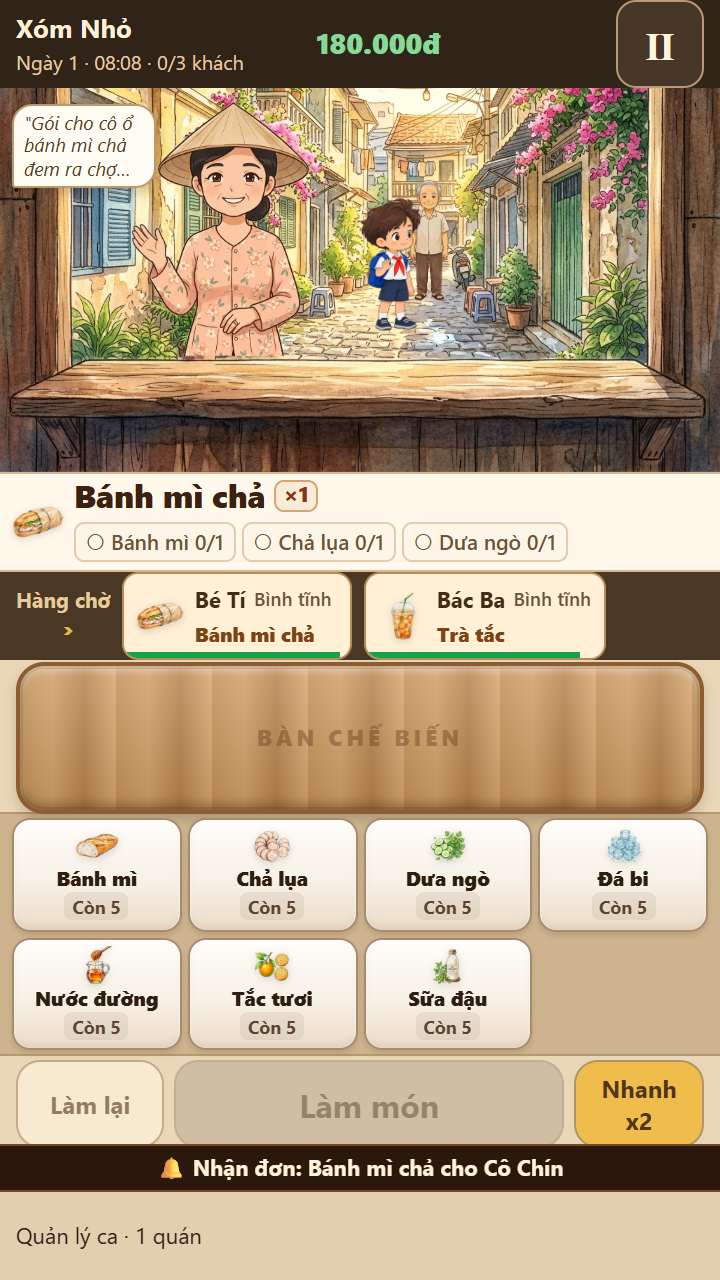
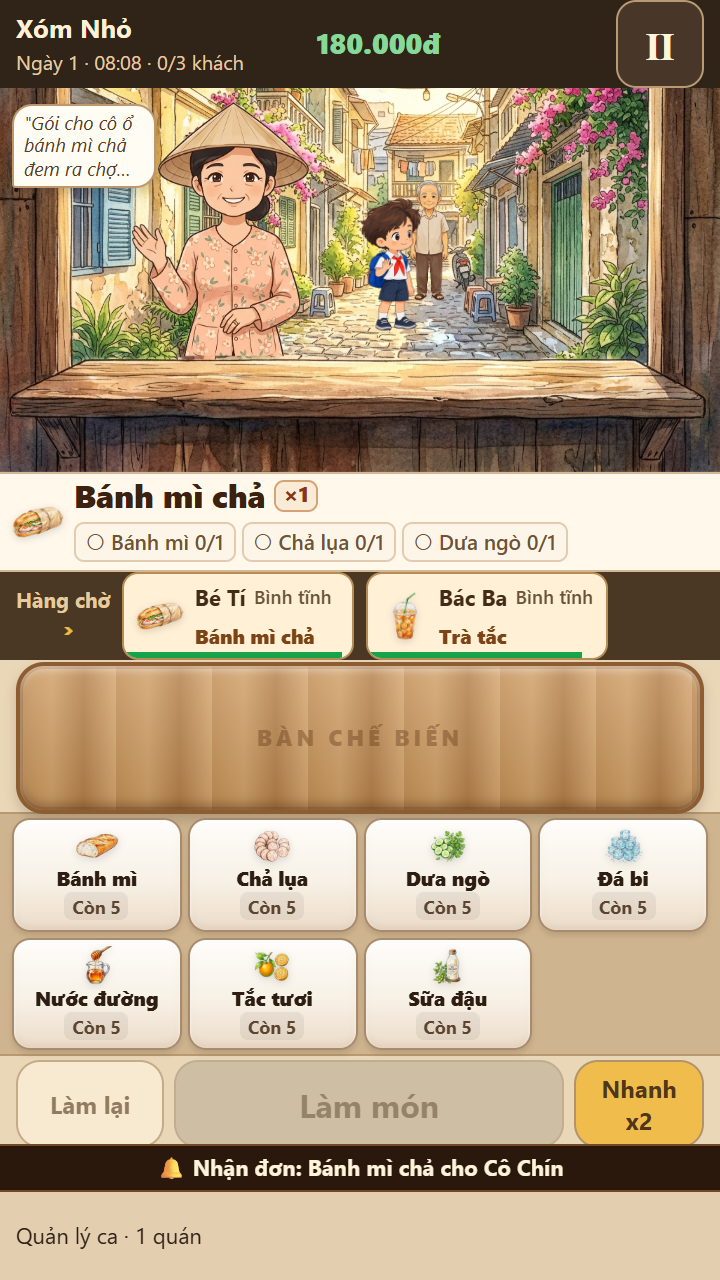
fix(gameplay-ui): adjust queue cards on 390x844 to prevent text clipping and remove unsupported recipe dialogues

diff --git a/game/style.css b/game/style.css
@@ -2633,7 +2633,7 @@ button:focus-visible, [role=button]:focus-visible { outline: 3px solid #0e7490; 
 
 /* Hands-on mobile kitchen: all cooking controls share the visible viewport. */
 #app[data-screen="SHOP"] { height: 100dvh; min-height: 0; overflow: hidden; }
-.play-screen { height:100%; display:grid; grid-template-rows:48px minmax(180px,1fr) auto 48px 80px 136px 48px auto 44px; gap:0; background:#ead7b8; padding-bottom:env(safe-area-inset-bottom); }
+.play-screen { height:100%; display:grid; grid-template-rows:48px minmax(180px,1fr) auto 52px 80px 136px 48px auto 44px; gap:0; background:#ead7b8; padding-bottom:env(safe-area-inset-bottom); }
 .play-header { display:flex; align-items:center; gap:6px; padding:4px 8px; background:#302419; color:#fff0d6; }
 .play-header>div { min-width:0; flex:1; }
 .play-header b { display:block; white-space:nowrap; overflow:hidden; text-overflow:ellipsis; font-size:14px; }
@@ -2667,15 +2667,15 @@ button:focus-visible, [role=button]:focus-visible { outline: 3px solid #0e7490; 
 .queue-header-label { width:auto; min-width:38px; flex-shrink:0; font-weight:700; font-size:10.5px; color:#e5cb9f; display:flex; flex-direction:column; align-items:center; line-height:1.1; }
 .queue-scroll-indicator { display:inline-block; font-style:normal; font-size:13px; font-weight:900; color:#f6c445; animation:queueArrowPulse 1.2s ease-in-out infinite; }
 @keyframes queueArrowPulse { 0%, 100% { transform:translateX(0); opacity:0.6; } 50% { transform:translateX(3px); opacity:1; } }
-.queue-ticket { min-width:115px; max-width:145px; min-height:44px; height:44px; position:relative; overflow:hidden; border:1px solid #b78d56; border-radius:8px; background:#fff0d6; padding:2px 6px; display:flex; align-items:center; gap:5px; text-align:left; color:#493019; flex-shrink:0; }
+.queue-ticket { min-width:116px; max-width:150px; min-height:46px; height:48px; position:relative; overflow:hidden; border:1px solid #b78d56; border-radius:8px; background:#fff0d6; padding:3px 7px 5px 6px; display:flex; align-items:center; gap:5px; text-align:left; color:#493019; flex-shrink:0; }
 .queue-dish-thumb { width:28px; height:28px; object-fit:contain; flex-shrink:0; filter:drop-shadow(0 1px 2px rgba(0,0,0,0.15)); }
-.queue-ticket-meta { flex:1; min-width:0; display:flex; flex-direction:column; justify-content:center; gap:1px; }
+.queue-ticket-meta { flex:1; min-width:0; display:flex; flex-direction:column; justify-content:center; gap:1.5px; }
 .queue-cust-line { display:flex; align-items:center; gap:4px; white-space:nowrap; overflow:hidden; text-overflow:ellipsis; }
 .queue-cust-line b { font-size:11px; font-weight:700; color:#432b17; white-space:nowrap; overflow:hidden; text-overflow:ellipsis; }
 .queue-cust-line small { font-size:9.5px; color:#6b5338; line-height:1.2; white-space:nowrap; }
 .queue-cust-line .rush-label { color:#c2410c; font-weight:800; }
-.queue-dish-line { display:block; line-height:1.15; overflow:visible; }
-.queue-dish-name { font-size:10px; font-weight:800; color:#7c4415; white-space:nowrap; overflow:visible; text-overflow:clip; }
+.queue-dish-line { display:block; line-height:1.25; overflow:visible; }
+.queue-dish-name { font-size:10px; font-weight:800; color:#7c4415; white-space:nowrap; overflow:visible; text-overflow:clip; display:inline-block; line-height:1.25; }
 .queue-patience-bar { position:absolute; left:0; bottom:0; height:3px; }
 .queue-ticket.chosen { background:#ffdf8b; border:2px solid #e2ab24; }
 .queue-empty-note { font-size:11px; color:#d8c29f; font-style:italic; white-space:nowrap; }

diff --git a/tools/playtest/capture_pilot_showcase.py b/tools/playtest/capture_pilot_showcase.py
@@ -99,8 +99,8 @@ async def capture_pilot():
 
         # 2. Capture each of the 4 pilot walk-in characters at the counter (standing BEHIND counter)
         walkin_cases = [
-            ("walkin_variant_0", "Em Nam (Học Sinh)", "pilot_01_walkin_student.png", "Cho em một ổ bánh mì chả ít cay để kịp giờ vào lớp nha anh!"),
-            ("walkin_variant_1", "Chị Mai (Văn Phòng)", "pilot_02_walkin_office.png", "Một ly trà tắc ít đường mang đi giùm em nha!"),
+            ("walkin_variant_0", "Em Nam (Học Sinh)", "pilot_01_walkin_student.png", "Cho em một ổ bánh mì chả ăn sáng để kịp giờ vào lớp nha anh!"),
+            ("walkin_variant_1", "Chị Mai (Văn Phòng)", "pilot_02_walkin_office.png", "Một ly trà tắc mang đi giùm em nha!"),
             ("walkin_variant_2", "Chú Bảy (Tài Xế Xe Ôm)", "pilot_03_walkin_driver.png", "Cho chú ly sữa đậu đá mát lạnh uống cho đã khát con ơi!"),
             ("walkin_variant_3", "Bác Năm (Tập Thể Dục)", "pilot_04_walkin_elder.png", "Sáng nay bánh mì mới ra lò thơm quá, lấy bác một ổ nha.")
         ]
